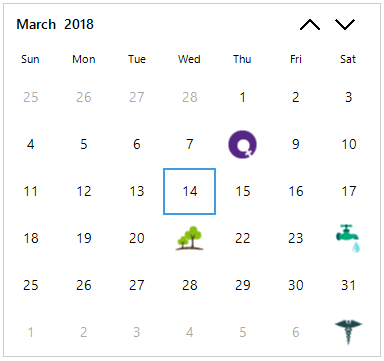
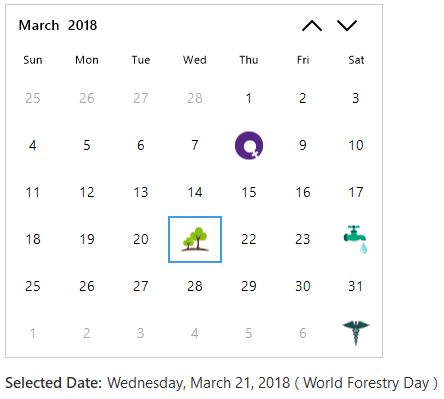
WF-41003 - Prepare documentation for SfCalendar control[Updated]

diff --git a/WindowsForms/SfCalendar/Getting-Started.md b/WindowsForms/SfCalendar/Getting-Started.md
@@ -194,60 +194,53 @@ private void InitializeComponent()
         SpecialDate specialDate1 = new SpecialDate();
         SpecialDate specialDate2 = new SpecialDate();
         SpecialDate specialDate3 = new SpecialDate();
-        SpecialDate specialDate4 = new SpecialDate();
-        SpecialDate specialDate5 = new SpecialDate();
-        
+        SpecialDate specialDate4 = new SpecialDate();        
+         
         specialDate1.BackColor = System.Drawing.Color.White;
         specialDate1.Font = new System.Drawing.Font("Segoe UI", 11.25F, System.Drawing.FontStyle.Italic, System.Drawing.GraphicsUnit.Point, ((byte)(0)));
         specialDate1.ForeColor = System.Drawing.Color.Magenta;
-        specialDate1.Image = Properties.Resources.Icon_National_Youth_day;
+        specialDate1.Image = Properties.Resources.icons_Womens_day;
+        specialDate1.Description = "International Women’s Day";
         specialDate1.ImageAlign = System.Drawing.ContentAlignment.MiddleCenter;
         specialDate1.IsDateVisible = false;
         specialDate1.TextAlign = System.Drawing.ContentAlignment.MiddleCenter;
         specialDate1.TextImageRelation = System.Windows.Forms.TextImageRelation.TextBeforeImage;
-        specialDate1.Value = new System.DateTime(2018, 1, 12, 0, 0, 0, 0);
-    
+        specialDate1.Value = new System.DateTime(2018, 3, 8, 0, 0, 0, 0);
+            
         specialDate2.BackColor = System.Drawing.Color.White;
         specialDate2.Font = new System.Drawing.Font("Segoe UI", 11.25F, System.Drawing.FontStyle.Italic, System.Drawing.GraphicsUnit.Point, ((byte)(0)));
         specialDate2.ForeColor = System.Drawing.Color.Magenta;
-        specialDate2.Image = Properties.Resources.Icon_Army_day;
+        specialDate2.Description = "World Forestry Day";
+        specialDate2.Image = Properties.Resources.Icon_World_Forestry_Day;
         specialDate2.ImageAlign = System.Drawing.ContentAlignment.MiddleCenter;
         specialDate2.IsDateVisible = false;
         specialDate2.TextAlign = System.Drawing.ContentAlignment.MiddleCenter;
         specialDate2.TextImageRelation = System.Windows.Forms.TextImageRelation.TextBeforeImage;
-        specialDate2.Value = new System.DateTime(2018, 1, 15, 0, 0, 0, 0); specialDate1.BackColor = System.Drawing.Color.White;
-        
+        specialDate2.Value = new System.DateTime(2018, 3, 21, 0, 0, 0, 0);
+            
         specialDate3.BackColor = System.Drawing.Color.White;
         specialDate3.Font = new System.Drawing.Font("Segoe UI", 11.25F, System.Drawing.FontStyle.Italic, System.Drawing.GraphicsUnit.Point, ((byte)(0)));
         specialDate3.ForeColor = System.Drawing.Color.Magenta;
-        specialDate3.Image = Properties.Resources.Icon_Anti_tobacco;
+        specialDate3.Image = Properties.Resources.Icon_Water_day;
+        specialDate3.Description = "World Day for Water";
         specialDate3.ImageAlign = System.Drawing.ContentAlignment.MiddleCenter;
         specialDate3.IsDateVisible = false;
         specialDate3.TextAlign = System.Drawing.ContentAlignment.MiddleCenter;
         specialDate3.TextImageRelation = System.Windows.Forms.TextImageRelation.TextBeforeImage;
-        specialDate3.Value = new System.DateTime(2018, 2, 4, 0, 0, 0, 0);
-            
+        specialDate3.Value = new System.DateTime(2018, 3, 24, 0, 0, 0, 0);
+        
         specialDate4.BackColor = System.Drawing.Color.White;
         specialDate4.Font = new System.Drawing.Font("Segoe UI", 11.25F, System.Drawing.FontStyle.Italic, System.Drawing.GraphicsUnit.Point, ((byte)(0)));
         specialDate4.ForeColor = System.Drawing.Color.Magenta;
-        specialDate4.Image = Properties.Resources.Valentine_day;
+        specialDate4.Image = Properties.Resources.Icon_Healthy_day;
+        specialDate4.Description = "World Health Day";
         specialDate4.ImageAlign = System.Drawing.ContentAlignment.MiddleCenter;
         specialDate4.IsDateVisible = false;
         specialDate4.TextAlign = System.Drawing.ContentAlignment.MiddleCenter;
         specialDate4.TextImageRelation = System.Windows.Forms.TextImageRelation.TextBeforeImage;
-        specialDate4.Value = new System.DateTime(2018, 2, 14, 0, 0, 0, 0);
-            
-        specialDate5.BackColor = System.Drawing.Color.White;
-        specialDate5.Font = new System.Drawing.Font("Segoe UI", 11.25F, System.Drawing.FontStyle.Italic, System.Drawing.GraphicsUnit.Point, ((byte)(0)));
-        specialDate5.ForeColor = System.Drawing.Color.Magenta;
-        specialDate5.Image = Properties.Resources.Icon_Children_day;
-        specialDate5.ImageAlign = System.Drawing.ContentAlignment.MiddleCenter;
-        specialDate5.IsDateVisible = false;
-        specialDate5.TextAlign = System.Drawing.ContentAlignment.MiddleCenter;
-        specialDate5.TextImageRelation = System.Windows.Forms.TextImageRelation.TextBeforeImage;
-        specialDate5.Value = new System.DateTime(2018, 7, 11, 0, 0, 0, 0);
-        
-        this.sfCalendar.SpecialDates = new SpecialDate[] {specialDate1, specialDate2, specialDate3, specialDate4, specialDate5};
+        specialDate4.Value = new System.DateTime(2018, 4, 7, 0, 0, 0, 0);
+
+        this.sfCalendar.SpecialDates = new SpecialDate[] {specialDate1, specialDate2, specialDate3, specialDate4};
     }
 
 {% endhighlight  %}
@@ -257,69 +250,63 @@ private void InitializeComponent()
  Private Sub InitializeComponent()
 
         Me.components = New System.ComponentModel.Container
+ 
         Dim specialDate1 As SpecialDate = New SpecialDate
         Dim specialDate2 As SpecialDate = New SpecialDate
         Dim specialDate3 As SpecialDate = New SpecialDate
         Dim specialDate4 As SpecialDate = New SpecialDate
-        Dim specialDate5 As SpecialDate = New SpecialDate
-
+ 
         specialDate1.BackColor = System.Drawing.Color.White
         specialDate1.Font = New System.Drawing.Font("Segoe UI", 11.25!, System.Drawing.FontStyle.Italic, System.Drawing.GraphicsUnit.Point, CType(0,Byte))
         specialDate1.ForeColor = System.Drawing.Color.Magenta
-        specialDate1.Image = Properties.Resources.Icon_National_Youth_day
+        specialDate1.Image = Properties.Resources.icons_Womens_day
+        specialDate1.Description = "International Womens Day"
         specialDate1.ImageAlign = System.Drawing.ContentAlignment.MiddleCenter
         specialDate1.IsDateVisible = false
         specialDate1.TextAlign = System.Drawing.ContentAlignment.MiddleCenter
         specialDate1.TextImageRelation = System.Windows.Forms.TextImageRelation.TextBeforeImage
-        specialDate1.Value = New Date(2018, 1, 15, 0, 0, 0, 0)
-
+        specialDate1.Value = New Date(2018, 3, 8, 0, 0, 0, 0)
+ 
         specialDate2.BackColor = System.Drawing.Color.White
         specialDate2.Font = New System.Drawing.Font("Segoe UI", 11.25!, System.Drawing.FontStyle.Italic, System.Drawing.GraphicsUnit.Point, CType(0,Byte))
         specialDate2.ForeColor = System.Drawing.Color.Magenta
-        specialDate2.Image = Properties.Resources.Icon_Army_day
+        specialDate2.Description = "World Forestry Day"
+        specialDate2.Image = Properties.Resources.Icon_World_Forestry_Day
         specialDate2.ImageAlign = System.Drawing.ContentAlignment.MiddleCenter
         specialDate2.IsDateVisible = false
         specialDate2.TextAlign = System.Drawing.ContentAlignment.MiddleCenter
         specialDate2.TextImageRelation = System.Windows.Forms.TextImageRelation.TextBeforeImage
-        specialDate2.Value = New Date(2018, 4, 7, 0, 0, 0, 0)
-
+ 
+        specialDate2.Value = New Date(2018, 3, 21, 0, 0, 0, 0)
         specialDate3.BackColor = System.Drawing.Color.White
         specialDate3.Font = New System.Drawing.Font("Segoe UI", 11.25!, System.Drawing.FontStyle.Italic, System.Drawing.GraphicsUnit.Point, CType(0,Byte))
         specialDate3.ForeColor = System.Drawing.Color.Magenta
-        specialDate3.Image = Properties.Resources.Icon_Anti_tobacco
+        specialDate3.Image = Properties.Resources.Icon_Water_day
+        specialDate3.Description = "World Day for Water"
         specialDate3.ImageAlign = System.Drawing.ContentAlignment.MiddleCenter
         specialDate3.IsDateVisible = false
         specialDate3.TextAlign = System.Drawing.ContentAlignment.MiddleCenter
         specialDate3.TextImageRelation = System.Windows.Forms.TextImageRelation.TextBeforeImage
-        specialDate3.Value = New Date(2018, 2, 24, 0, 0, 0, 0)
-
+        specialDate3.Value = New Date(2018, 3, 24, 0, 0, 0, 0)
+ 
         specialDate4.BackColor = System.Drawing.Color.White
         specialDate4.Font = New System.Drawing.Font("Segoe UI", 11.25!, System.Drawing.FontStyle.Italic, System.Drawing.GraphicsUnit.Point, CType(0,Byte))
         specialDate4.ForeColor = System.Drawing.Color.Magenta
-        specialDate4.Image = Properties.Resources.Valentine_day
+        specialDate4.Image = Properties.Resources.Icon_Healthy_day
+        specialDate4.Description = "World Health Day"
         specialDate4.ImageAlign = System.Drawing.ContentAlignment.MiddleCenter
         specialDate4.IsDateVisible = false
         specialDate4.TextAlign = System.Drawing.ContentAlignment.MiddleCenter
         specialDate4.TextImageRelation = System.Windows.Forms.TextImageRelation.TextBeforeImage
-        specialDate4.Value = New Date(2018, 2, 8, 0, 0, 0, 0)
-
-        specialDate5.BackColor = System.Drawing.Color.White
-        specialDate5.Font = New System.Drawing.Font("Segoe UI", 11.25!, System.Drawing.FontStyle.Italic, System.Drawing.GraphicsUnit.Point, CType(0,Byte))
-        specialDate5.ForeColor = System.Drawing.Color.Magenta
-        specialDate5.Image = Properties.Resources.Icon_Children_day
-        specialDate5.ImageAlign = System.Drawing.ContentAlignment.MiddleCenter
-        specialDate5.IsDateVisible = false
-        specialDate5.TextAlign = System.Drawing.ContentAlignment.MiddleCenter
-        specialDate5.TextImageRelation = System.Windows.Forms.TextImageRelation.TextBeforeImage
-        specialDate5.Value = New Date(2018, 3, 21, 0, 0, 0, 0)
-        
-        Me.sfCalendar.SpecialDates = New SpecialDate() {specialDate1, specialDate2, specialDate3, specialDate4, specialDate5}
-        
+        specialDate4.Value = New Date(2018, 4, 7, 0, 0, 0, 0)
+ 
+        Me.sfCalendar.SpecialDates = New SpecialDate() {specialDate1, specialDate2, specialDate3, specialDate4}
+ 
     End Sub
 
 {% endhighlight  %}
 
-{% endtabs %} 
+{% endtabs %}  
 
 ![](cell-customization-images/specialdates.png)
 

diff --git a/WindowsForms/SfCalendar/cell-customization.md b/WindowsForms/SfCalendar/cell-customization.md
@@ -29,60 +29,53 @@ private void InitializeComponent()
         SpecialDate specialDate1 = new SpecialDate();
         SpecialDate specialDate2 = new SpecialDate();
         SpecialDate specialDate3 = new SpecialDate();
-        SpecialDate specialDate4 = new SpecialDate();
-        SpecialDate specialDate5 = new SpecialDate();
-        
+        SpecialDate specialDate4 = new SpecialDate();        
+         
         specialDate1.BackColor = System.Drawing.Color.White;
         specialDate1.Font = new System.Drawing.Font("Segoe UI", 11.25F, System.Drawing.FontStyle.Italic, System.Drawing.GraphicsUnit.Point, ((byte)(0)));
         specialDate1.ForeColor = System.Drawing.Color.Magenta;
-        specialDate1.Image = Properties.Resources.Icon_National_Youth_day;
+        specialDate1.Image = Properties.Resources.icons_Womens_day;
+        specialDate1.Description = "International Women’s Day";
         specialDate1.ImageAlign = System.Drawing.ContentAlignment.MiddleCenter;
         specialDate1.IsDateVisible = false;
         specialDate1.TextAlign = System.Drawing.ContentAlignment.MiddleCenter;
         specialDate1.TextImageRelation = System.Windows.Forms.TextImageRelation.TextBeforeImage;
-        specialDate1.Value = new System.DateTime(2018, 4, 7, 0, 0, 0, 0);
-    
+        specialDate1.Value = new System.DateTime(2018, 3, 8, 0, 0, 0, 0);
+            
         specialDate2.BackColor = System.Drawing.Color.White;
         specialDate2.Font = new System.Drawing.Font("Segoe UI", 11.25F, System.Drawing.FontStyle.Italic, System.Drawing.GraphicsUnit.Point, ((byte)(0)));
         specialDate2.ForeColor = System.Drawing.Color.Magenta;
-        specialDate2.Image = Properties.Resources.Icon_Army_day;
+        specialDate2.Description = "World Forestry Day";
+        specialDate2.Image = Properties.Resources.Icon_World_Forestry_Day;
         specialDate2.ImageAlign = System.Drawing.ContentAlignment.MiddleCenter;
         specialDate2.IsDateVisible = false;
         specialDate2.TextAlign = System.Drawing.ContentAlignment.MiddleCenter;
         specialDate2.TextImageRelation = System.Windows.Forms.TextImageRelation.TextBeforeImage;
-        specialDate2.Value = new System.DateTime(2018, 3, 24, 0, 0, 0, 0); specialDate1.BackColor = System.Drawing.Color.White;
-        
+        specialDate2.Value = new System.DateTime(2018, 3, 21, 0, 0, 0, 0);
+            
         specialDate3.BackColor = System.Drawing.Color.White;
         specialDate3.Font = new System.Drawing.Font("Segoe UI", 11.25F, System.Drawing.FontStyle.Italic, System.Drawing.GraphicsUnit.Point, ((byte)(0)));
         specialDate3.ForeColor = System.Drawing.Color.Magenta;
-        specialDate3.Image = Properties.Resources.Icon_Anti_tobacco;
+        specialDate3.Image = Properties.Resources.Icon_Water_day;
+        specialDate3.Description = "World Day for Water";
         specialDate3.ImageAlign = System.Drawing.ContentAlignment.MiddleCenter;
         specialDate3.IsDateVisible = false;
         specialDate3.TextAlign = System.Drawing.ContentAlignment.MiddleCenter;
         specialDate3.TextImageRelation = System.Windows.Forms.TextImageRelation.TextBeforeImage;
-        specialDate3.Value = new System.DateTime(2018, 3, 21, 0, 0, 0, 0);
-            
+        specialDate3.Value = new System.DateTime(2018, 3, 24, 0, 0, 0, 0);
+        
         specialDate4.BackColor = System.Drawing.Color.White;
         specialDate4.Font = new System.Drawing.Font("Segoe UI", 11.25F, System.Drawing.FontStyle.Italic, System.Drawing.GraphicsUnit.Point, ((byte)(0)));
         specialDate4.ForeColor = System.Drawing.Color.Magenta;
-        specialDate4.Image = Properties.Resources.Valentine_day;
+        specialDate4.Image = Properties.Resources.Icon_Healthy_day;
+        specialDate4.Description = "World Health Day";
         specialDate4.ImageAlign = System.Drawing.ContentAlignment.MiddleCenter;
         specialDate4.IsDateVisible = false;
         specialDate4.TextAlign = System.Drawing.ContentAlignment.MiddleCenter;
         specialDate4.TextImageRelation = System.Windows.Forms.TextImageRelation.TextBeforeImage;
-        specialDate4.Value = new System.DateTime(2018, 3, 14, 0, 0, 0, 0);
-            
-        specialDate5.BackColor = System.Drawing.Color.White;
-        specialDate5.Font = new System.Drawing.Font("Segoe UI", 11.25F, System.Drawing.FontStyle.Italic, System.Drawing.GraphicsUnit.Point, ((byte)(0)));
-        specialDate5.ForeColor = System.Drawing.Color.Magenta;
-        specialDate5.Image = Properties.Resources.Icon_Children_day;
-        specialDate5.ImageAlign = System.Drawing.ContentAlignment.MiddleCenter;
-        specialDate5.IsDateVisible = false;
-        specialDate5.TextAlign = System.Drawing.ContentAlignment.MiddleCenter;
-        specialDate5.TextImageRelation = System.Windows.Forms.TextImageRelation.TextBeforeImage;
-        specialDate5.Value = new System.DateTime(2018, 3, 8, 0, 0, 0, 0);
+        specialDate4.Value = new System.DateTime(2018, 4, 7, 0, 0, 0, 0);
 
-        this.sfCalendar.SpecialDates = new SpecialDate[] {specialDate1, specialDate2, specialDate3, specialDate4, specialDate5};
+        this.sfCalendar.SpecialDates = new SpecialDate[] {specialDate1, specialDate2, specialDate3, specialDate4};
     }
 
 {% endhighlight  %}
@@ -92,64 +85,58 @@ private void InitializeComponent()
  Private Sub InitializeComponent()
 
         Me.components = New System.ComponentModel.Container
+ 
         Dim specialDate1 As SpecialDate = New SpecialDate
         Dim specialDate2 As SpecialDate = New SpecialDate
         Dim specialDate3 As SpecialDate = New SpecialDate
         Dim specialDate4 As SpecialDate = New SpecialDate
-        Dim specialDate5 As SpecialDate = New SpecialDate
-
+ 
         specialDate1.BackColor = System.Drawing.Color.White
         specialDate1.Font = New System.Drawing.Font("Segoe UI", 11.25!, System.Drawing.FontStyle.Italic, System.Drawing.GraphicsUnit.Point, CType(0,Byte))
         specialDate1.ForeColor = System.Drawing.Color.Magenta
-        specialDate1.Image = Properties.Resources.Icon_National_Youth_day
+        specialDate1.Image = Properties.Resources.icons_Womens_day
+        specialDate1.Description = "International Womens Day"
         specialDate1.ImageAlign = System.Drawing.ContentAlignment.MiddleCenter
         specialDate1.IsDateVisible = false
         specialDate1.TextAlign = System.Drawing.ContentAlignment.MiddleCenter
         specialDate1.TextImageRelation = System.Windows.Forms.TextImageRelation.TextBeforeImage
-        specialDate1.Value = New Date(2018, 4, 7, 0, 0, 0, 0)
-
+        specialDate1.Value = New Date(2018, 3, 8, 0, 0, 0, 0)
+ 
         specialDate2.BackColor = System.Drawing.Color.White
         specialDate2.Font = New System.Drawing.Font("Segoe UI", 11.25!, System.Drawing.FontStyle.Italic, System.Drawing.GraphicsUnit.Point, CType(0,Byte))
         specialDate2.ForeColor = System.Drawing.Color.Magenta
-        specialDate2.Image = Properties.Resources.Icon_Army_day
+        specialDate2.Description = "World Forestry Day"
+        specialDate2.Image = Properties.Resources.Icon_World_Forestry_Day
         specialDate2.ImageAlign = System.Drawing.ContentAlignment.MiddleCenter
         specialDate2.IsDateVisible = false
         specialDate2.TextAlign = System.Drawing.ContentAlignment.MiddleCenter
         specialDate2.TextImageRelation = System.Windows.Forms.TextImageRelation.TextBeforeImage
-        specialDate2.Value = New Date(2018, 3, 24, 0, 0, 0, 0)
-
+ 
+        specialDate2.Value = New Date(2018, 3, 21, 0, 0, 0, 0)
         specialDate3.BackColor = System.Drawing.Color.White
         specialDate3.Font = New System.Drawing.Font("Segoe UI", 11.25!, System.Drawing.FontStyle.Italic, System.Drawing.GraphicsUnit.Point, CType(0,Byte))
         specialDate3.ForeColor = System.Drawing.Color.Magenta
-        specialDate3.Image = Properties.Resources.Icon_Anti_tobacco
+        specialDate3.Image = Properties.Resources.Icon_Water_day
+        specialDate3.Description = "World Day for Water"
         specialDate3.ImageAlign = System.Drawing.ContentAlignment.MiddleCenter
         specialDate3.IsDateVisible = false
         specialDate3.TextAlign = System.Drawing.ContentAlignment.MiddleCenter
         specialDate3.TextImageRelation = System.Windows.Forms.TextImageRelation.TextBeforeImage
-        specialDate3.Value = New Date(2018, 3, 21, 0, 0, 0, 0)
-
+        specialDate3.Value = New Date(2018, 3, 24, 0, 0, 0, 0)
+ 
         specialDate4.BackColor = System.Drawing.Color.White
         specialDate4.Font = New System.Drawing.Font("Segoe UI", 11.25!, System.Drawing.FontStyle.Italic, System.Drawing.GraphicsUnit.Point, CType(0,Byte))
         specialDate4.ForeColor = System.Drawing.Color.Magenta
-        specialDate4.Image = Properties.Resources.Valentine_day
+        specialDate4.Image = Properties.Resources.Icon_Healthy_day
+        specialDate4.Description = "World Health Day"
         specialDate4.ImageAlign = System.Drawing.ContentAlignment.MiddleCenter
         specialDate4.IsDateVisible = false
         specialDate4.TextAlign = System.Drawing.ContentAlignment.MiddleCenter
         specialDate4.TextImageRelation = System.Windows.Forms.TextImageRelation.TextBeforeImage
-        specialDate4.Value = New Date(2018, 3, 14, 0, 0, 0, 0)
-
-        specialDate5.BackColor = System.Drawing.Color.White
-        specialDate5.Font = New System.Drawing.Font("Segoe UI", 11.25!, System.Drawing.FontStyle.Italic, System.Drawing.GraphicsUnit.Point, CType(0,Byte))
-        specialDate5.ForeColor = System.Drawing.Color.Magenta
-        specialDate5.Image = Properties.Resources.Icon_Children_day
-        specialDate5.ImageAlign = System.Drawing.ContentAlignment.MiddleCenter
-        specialDate5.IsDateVisible = false
-        specialDate5.TextAlign = System.Drawing.ContentAlignment.MiddleCenter
-        specialDate5.TextImageRelation = System.Windows.Forms.TextImageRelation.TextBeforeImage
-        specialDate5.Value = New Date(2018, 3, 8, 0, 0, 0, 0)
-
-        Me.sfCalendar.SpecialDates = New SpecialDate() {specialDate1, specialDate2, specialDate3, specialDate4, specialDate5}
-        
+        specialDate4.Value = New Date(2018, 4, 7, 0, 0, 0, 0)
+ 
+        Me.sfCalendar.SpecialDates = New SpecialDate() {specialDate1, specialDate2, specialDate3, specialDate4}
+ 
     End Sub
 
 {% endhighlight  %}

diff --git a/WindowsForms/SfCalendar/navigation.md b/WindowsForms/SfCalendar/navigation.md
@@ -45,15 +45,15 @@ Navigation between next or previous range of dates for the current view in the c
 
 ## Navigation through keyboard
 
-`SfCalendar` control allows to navigate from one view to other views through keyboard by pressing the `CTRL + UP` in Backward direction or `CTRL + DOWN` keys in Forward direction. SfCalendar allows to navigate beetween different cells in the same view by pressing navigation arrows.
+`SfCalendar` control allows to navigate from one view to other views through keyboard by pressing the `CTRL + UP` in Backward direction or `CTRL + DOWN` keys in Forward direction. SfCalendar allows to navigate between different cells in the same view by pressing navigation arrows.
 
 ## Navigation through touch
 
-Navigation beetween next or previous range of dates for the current view in the calendar can be done by panning on thh calendar view. `SfCalendar` control allows to navigate from one view by tap the header of calendar. Tapping cell from the view navigate back to next available view in `ViewMode`. 
+Navigation between next or previous range of dates for the current view in the calendar can be done by panning on thh calendar view. `SfCalendar` control allows to navigate from one view by tap the header of calendar. Tapping cell from the view navigate back to next available view in `ViewMode`. 
 
 ## Handle view change
 
-`ViewChanging` event occurs when click on the Calendar Header text to change the view from one view to another view. Change of view can be restricted on-demad by handling the `ViewChanging` event. `ViewChangingEventArgs` provides the information about the old and new `ViewType`. This helps to restrict view change in specific scenarios only. The following code example illustrates the same.
+`ViewChanging` event occurs when click on the Calendar Header text to change the view from one view to another view. Change of view can be restricted on-demand by handling the `ViewChanging` event. `ViewChangingEventArgs` provides the information about the old and new `ViewType`. This helps to restrict view change in specific scenarios only. The following code example illustrates the same.
 
 {% tabs %}
 
@@ -97,7 +97,7 @@ Me.sfCalendar.ViewChanging = (Me.sfCalendar.ViewChanging + SfCalendar_ViewChangi
 
 ## Handle Navigation
 
-`Navigating` event occurs when navigating beetween current range of dates to next or previous range of dates in calendar. Navigating between the same view can berestricted by handling the `Navigating` event. `NavigatingEventArgs` provides the information about the old and new range of dates. This helps to restrict navigation in specific scenarios only. The following code example illustrates the same.
+`Navigating` event occurs when navigating between current range of dates to next or previous range of dates in calendar. Navigating between the same view can be restricted by handling the `Navigating` event. `NavigatingEventArgs` provides the information about the old and new range of dates. This helps to restrict navigation in specific scenarios only. The following code example illustrates the same.
 
 {% tabs %}
 
